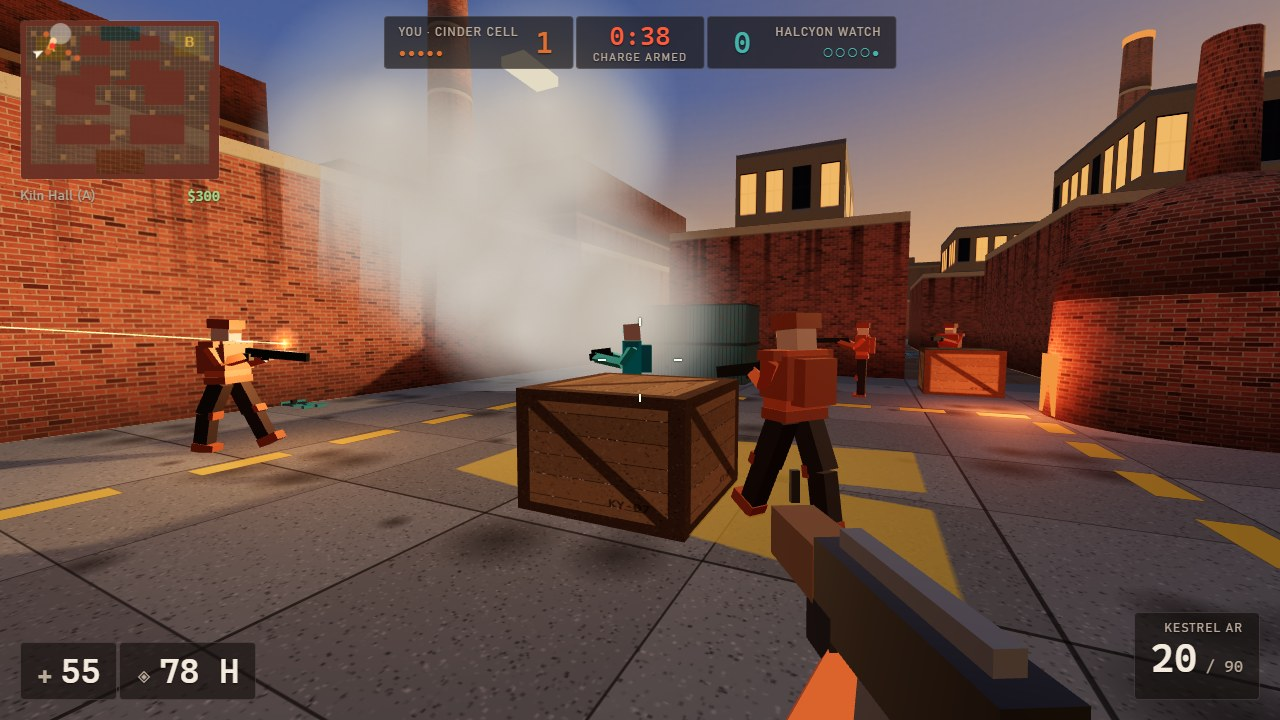
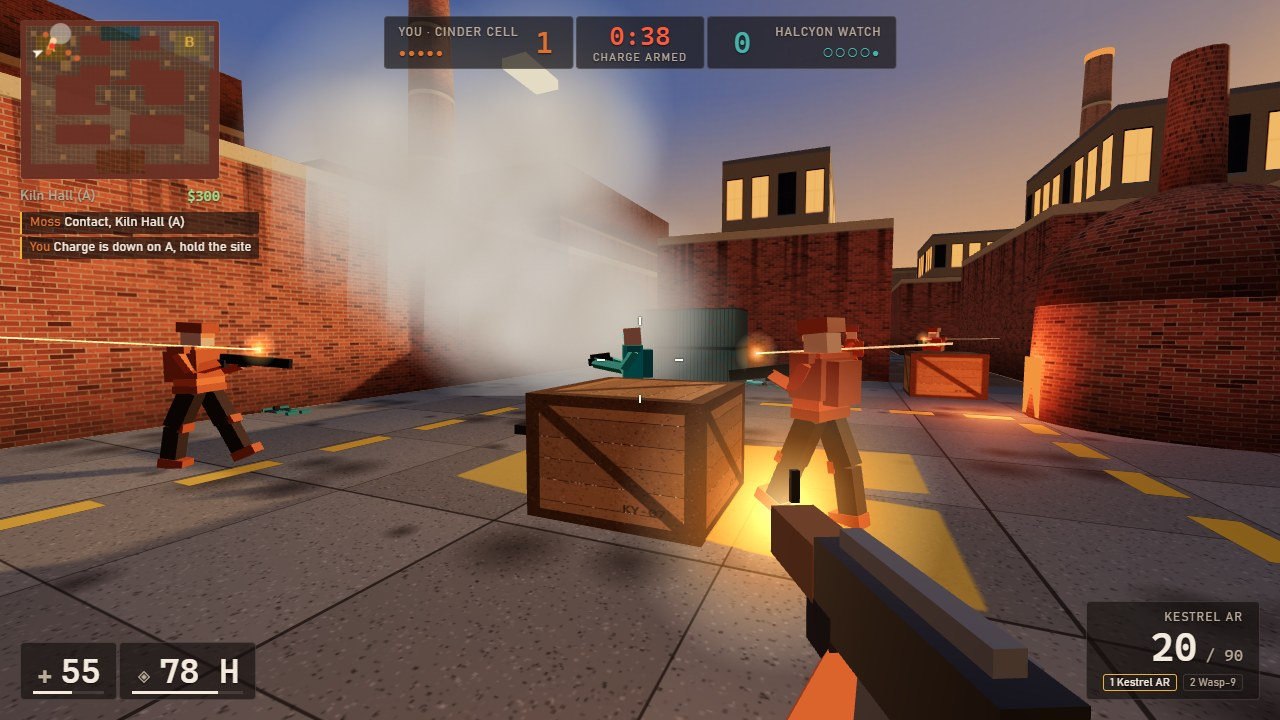
Radio callouts, loadout strip, meters, sign boards, muzzle in world space
Bots call contacts, executes, rotations, retakes, defuses and thrown
utility to their squad; the HUD shows them with a loadout strip and health
and armour meters. Wall signs are painted boards. The player's tracers now
start at the gun in world space (they started at the weapon scene's origin).

diff --git a/game/src/ui/hud.js b/game/src/ui/hud.js
@@ -14,8 +14,8 @@ const clock = (t) => `${Math.floor(Math.max(0, t) / 60)}:${String(Math.floor(Mat
 export function createHud() {
 	const el = {};
 	for (const id of ['callout', 'money', 'timer', 'phase', 'feed', 'crosshair', 'hitmarker', 'hp', 'armor', 'weapon-name', 'mag', 'reserve',
-		'nades', 'action', 'action-label', 'action-fill', 'hint', 'banner', 'banner-title', 'banner-sub', 'spectate', 'damage', 'flashbang', 'scope',
-		'board', 'board-body', 'clock']) el[id] = $(id);
+		'action', 'action-label', 'action-fill', 'hint', 'banner', 'banner-title', 'banner-sub', 'spectate', 'damage', 'flashbang', 'scope',
+		'board', 'board-body', 'clock', 'radio', 'slots', 'hp-bar', 'armor-bar']) el[id] = $(id);
 	const teams = [0, 1].map((i) => ({ root: $(`team${i}`), name: $(`team${i}`).querySelector('.name'), score: $(`team${i}`).querySelector('.score'), pips: $(`team${i}`).querySelector('.pips') }));
 	const cache = new Map();
 	const set = (key, node, value, prop = 'textContent') => {
@@ -29,7 +29,8 @@ export function createHud() {
 		node.classList.toggle(name, on);
 	};
 
-	const feed = [];
+	const feed = [], calls = [];
+	const slots = { primary: null, secondary: null, slot: '', nades: -1 };
 	let bannerUntil = 0, hitUntil = 0, hurt = 0, boardAt = 0;
 
 	function banner(title, sub, now, seconds) {
@@ -38,21 +39,31 @@ export function createHud() {
 		bannerUntil = now + seconds;
 	}
 
-	function pushFeed(killer, victim, weapon, head, viewer, now) {
+	// A timed line at the top of a list (the kill feed, the radio); the oldest goes past `max`.
+	function pushLine(lines, root, html, className, until, max) {
 		const li = document.createElement('li');
-		const name = (s) => `<span class="${s.side}">${s.name}</span>`;
+		li.innerHTML = html;
+		li.className = className;
+		root.prepend(li);
+		lines.unshift({ li, until });
+		while (lines.length > max) lines.pop().li.remove();
+	}
+	const expire = (lines, now) => {
+		for (let i = lines.length - 1; i >= 0; i--) if (now > lines[i].until) lines.splice(i, 1)[0].li.remove();
+	};
+	const tag = (s) => `<span class="${s.side}">${s.name}</span>`;
+
+	function pushKill(killer, victim, weapon, head, viewer, now) {
 		const label = WEAPONS[weapon]?.name ?? (weapon === 'frag' ? 'Frag' : 'Charge');
-		li.innerHTML = killer === victim ? `<em>${label}</em> ${name(victim)}` : `${name(killer)} <em>${label}${head ? ' ◉' : ''}</em> ${name(victim)}`;
-		if (killer === viewer || victim === viewer) li.className = 'mine';
-		el.feed.prepend(li);
-		feed.unshift({ li, until: now + 6 });
-		while (feed.length > 5) feed.pop().li.remove();
+		const html = killer === victim ? `<em>${label}</em> ${tag(victim)}` : `${tag(killer)} <em>${label}${head ? ' ◉' : ''}</em> ${tag(victim)}`;
+		pushLine(feed, el.feed, html, killer === viewer || victim === viewer ? 'mine' : '', now + 6, 5);
 	}
 
 	return {
 		event(e, sim, viewer) {
 			const now = sim.time;
-			if (e.type === 'kill') pushFeed(e.o, e.s, e.id, e.n === 1, viewer, now);
+			if (e.type === 'kill') pushKill(e.o, e.s, e.id, e.n === 1, viewer, now);
+			else if (e.type === 'radio' && e.s.squad === viewer.squad) pushLine(calls, el.radio, `${tag(e.s)} ${e.id}`, '', now + 5, 4);
 			else if (e.type === 'hit') {
 				if (e.o === viewer && e.s !== viewer) { hitUntil = now + 0.12; toggle('headhit', el.hitmarker, 'head', e.id === 'head'); }
 				if (e.s === viewer) hurt = Math.min(1, hurt + e.n / 60);
@@ -97,11 +108,17 @@ export function createHud() {
 			set('mag', el.mag, w ? String(w.mag) : String(viewer.nades[viewer.nadeType]));
 			set('reserve', el.reserve, w ? `/ ${w.reserve}` : '');
 			toggle('empty', el.mag, 'empty', w !== null && w.mag === 0);
-			const n = viewer.nades;
-			const nadeKey = n.frag * 100 + n.flash * 10 + n.smoke;
-			if (cache.get('nades') !== nadeKey) {
-				cache.set('nades', nadeKey);
-				el.nades.innerHTML = '<i class="frag"></i>'.repeat(n.frag) + '<i class="flash"></i>'.repeat(n.flash) + '<i class="smoke"></i>'.repeat(n.smoke);
+			set('hpbar', el['hp-bar'].style, `${Math.max(0, viewer.hp)}%`, 'width');
+			set('armorbar', el['armor-bar'].style, `${viewer.armor}%`, 'width');
+
+			// The loadout strip: what keys 1, 2 and 4 hold, the one in hand lit.
+			const n = viewer.nades, held = n.frag + n.flash + n.smoke;
+			if (slots.primary !== viewer.primary || slots.secondary !== viewer.secondary || slots.slot !== viewer.slot || slots.nades !== held) {
+				Object.assign(slots, { primary: viewer.primary, secondary: viewer.secondary, slot: viewer.slot, nades: held });
+				const item = (key, slot, label) => `<i${viewer.slot === slot ? ' class="on"' : ''}>${key} ${label}</i>`;
+				const nades = ['frag', 'flash', 'smoke'].filter((t) => n[t] > 0).map((t) => (n[t] > 1 ? `${NADE_NAMES[t]} ×${n[t]}` : NADE_NAMES[t]));
+				el.slots.innerHTML = (viewer.primary ? item(1, 'primary', viewer.primary.def.name) : '')
+					+ item(2, 'secondary', viewer.secondary.def.name) + (held > 0 ? item(4, 'nade', nades.join(' · ')) : '');
 			}
 
 			// Plant / defuse progress and context hints.
@@ -136,7 +153,8 @@ export function createHud() {
 			set('blind', el.flashbang.style, Math.min(1, viewer.flash / 1.6).toFixed(2), 'opacity');
 			toggle('scope', el.scope, 'on', viewer.scoped && viewer.alive);
 			toggle('banner', el.banner, 'on', now < bannerUntil);
-			for (let i = feed.length - 1; i >= 0; i--) if (now > feed[i].until) feed.splice(i, 1)[0].li.remove();
+			expire(feed, now);
+			expire(calls, now);
 		},
 
 		board(sim, me, show) {

diff --git a/game/style.css b/game/style.css
@@ -8,6 +8,8 @@ html, body { margin: 0; height: 100%; overflow: hidden; background: var(--soot);
 .atk { color: var(--atk); } .def { color: var(--def); }
 #radar { position: fixed; left: 20px; top: 20px; width: 200px; height: 160px; border-radius: 4px; border: 1px solid var(--line); }
 #where { position: fixed; left: 20px; top: 188px; width: 200px; display: flex; justify-content: space-between; font-size: 14px; color: var(--muted); }
+#radio { position: fixed; left: 20px; top: 212px; margin: 0; padding: 0; list-style: none; display: grid; gap: 3px; font-size: 13px; }
+#radio li { padding: 3px 8px; background: var(--panel); border-left: 2px solid var(--hazard); border-radius: 2px; }
 #money { font-family: var(--readout); color: #9fdc8c; font-weight: 600; }
 #scorebar { position: fixed; top: 16px; left: 50%; transform: translateX(-50%); display: flex; align-items: stretch; gap: 2px; }
 .team { display: grid; grid-template-columns: auto auto; align-items: center; column-gap: 12px; padding: 6px 14px; min-width: 190px; }
@@ -41,7 +43,9 @@ html, body { margin: 0; height: 100%; overflow: hidden; background: var(--soot);
 #hitmarker i:nth-child(3) { top: 14px; left: 0; height: 2px; width: 9px; }
 #hitmarker i:nth-child(4) { top: 14px; right: 0; height: 2px; width: 9px; }
 #vitals { position: fixed; left: 20px; bottom: 20px; display: flex; gap: 2px; }
-#vitals div { display: flex; align-items: baseline; gap: 8px; padding: 8px 16px; }
+#vitals div { position: relative; display: flex; align-items: baseline; gap: 8px; padding: 8px 16px; }
+.meter { position: absolute; left: 12px; right: 12px; bottom: 5px; height: 3px; background: rgba(243, 233, 220, 0.12); }
+.meter b { display: block; height: 100%; width: 0; background: var(--ink); }
 #vitals .icon { font-size: 18px; color: var(--muted); }
 #vitals b { font: 600 34px var(--readout); }
 #arms { position: fixed; right: 20px; bottom: 20px; padding: 8px 16px; text-align: right; }
@@ -50,9 +54,9 @@ html, body { margin: 0; height: 100%; overflow: hidden; background: var(--soot);
 #mag { font: 600 40px var(--readout); }
 #mag.empty { color: var(--hurt); }
 #reserve { font: 16px var(--readout); color: var(--muted); }
-#nades { display: flex; justify-content: flex-end; gap: 4px; min-height: 10px; }
-#nades i { width: 8px; height: 10px; border-radius: 2px; }
-#nades .frag { background: #8a9a5a; } #nades .flash { background: #e8e2d2; } #nades .smoke { background: #8c9096; }
+#slots { display: flex; justify-content: flex-end; gap: 6px; margin-top: 4px; font-size: 11px; color: var(--muted); }
+#slots i { font-style: normal; padding: 1px 6px; border: 1px solid var(--line); border-radius: 3px; }
+#slots i.on { color: var(--ink); border-color: var(--hazard); }
 #action { position: fixed; left: 50%; top: 62%; transform: translateX(-50%); width: 280px; text-align: center; opacity: 0; }
 #action.on { opacity: 1; }
 #action-label { font-size: 13px; letter-spacing: 0.1em; text-transform: uppercase; margin-bottom: 6px; }

diff --git a/game/src/ai/tactics.js b/game/src/ai/tactics.js
@@ -7,6 +7,7 @@ import { buy } from '../sim/shop.js';
 import { sideOf } from '../sim/round.js';
 import { intelNear } from './perception.js';
 import { setTask } from './bot.js';
+import { radio } from '../sim/events.js';
 
 const DEFENCE_SETUPS = [
 	['A', 'A', 'mid', 'B', 'B'], ['A', 'B', 'B', 'mid', 'A'], ['A', 'A', 'B', 'B', 'B'], ['B', 'A', 'A', 'mid', 'A'],
@@ -19,7 +20,7 @@ const CENTERS = { A: world(SITES.A.center), B: world(SITES.B.center) };
 export function createTactics(soldiers) {
 	return [0, 1].map((squad) => ({
 		roster: soldiers.filter((s) => s.squad === squad && s.brain !== null), alive: [],
-		plan: null, executed: false, rushed: false, planted: false, pressure: '', defuser: null,
+		plan: null, executed: false, rushed: false, planted: false, pressure: '', defuser: null, calledAt: -99,
 	}));
 }
 
@@ -114,6 +115,7 @@ function attack(sim, st, bots) {
 	if (charge.state === 'planted') {
 		if (!st.planted) {
 			st.planted = true;
+			radio(sim, bots[0], `Charge is down on ${charge.site}, hold the site`);
 			const site = SITES[charge.site];
 			bots.forEach((bot, i) => {
 				const spot = site.post[i % site.post.length];
@@ -143,6 +145,7 @@ function attack(sim, st, bots) {
 // each group's utility thrown from its staging point first.
 function execute(sim, st, bots) {
 	st.executed = true;
+	radio(sim, bots[0], st.rushed ? `Out of time, everyone ${st.plan.site}!` : `Go ${st.plan.site}, go!`);
 	const site = SITES[st.plan.site];
 	const thrown = new Set();
 	bots.forEach((bot, i) => {
@@ -180,6 +183,7 @@ function defend(sim, st, bots) {
 		const site = SITES[charge.site];
 		if (!st.planted) {
 			st.planted = true;
+			radio(sim, bots[0], `Charge on ${charge.site}, retake!`);
 			bots.forEach((bot, i) => {
 				const hold = site.holds[i % site.holds.length];
 				setTask(bot, 'hold', [world(hold.at)], charge.x, charge.z);
@@ -191,6 +195,7 @@ function defend(sim, st, bots) {
 		if ((!st.defuser || !st.defuser.alive) && (!threat || urgent)) {
 			st.defuser = bots.find((b) => b.kit && Math.hypot(b.pos.x - charge.x, b.pos.z - charge.z) < 25) ?? nearest(bots, charge.x, charge.z);
 			setTask(st.defuser, 'defuse', [{ x: charge.x + 0.4, z: charge.z + 0.4 }], charge.x, charge.z);
+			radio(sim, st.defuser, 'On the charge, cover me');
 		}
 		return;
 	}
@@ -202,6 +207,7 @@ function defend(sim, st, bots) {
 		for (const m of sim.intel[bots[0].squad]) if (sim.time - m.time < 3 && Math.hypot(m.x - c.x, m.z - c.z) < 18) seen++;
 		if (seen >= 2) {
 			st.pressure = key;
+			radio(sim, bots[0], `They're on ${key}, rotating`);
 			bots.forEach((bot, i) => {
 				if (bot.brain.post === key) return;
 				const hold = SITES[key].holds[(i + 1) % SITES[key].holds.length];

diff --git a/game/index.html b/game/index.html
@@ -12,6 +12,7 @@
 <div id="hud" aria-hidden="true">
 	<canvas id="radar" width="200" height="160"></canvas>
 	<div id="where"><span id="callout"></span><span id="money">$800</span></div>
+	<ul id="radio"></ul>
 	<div id="scorebar">
 		<div id="team0" class="team panel"><span class="name"></span><span class="score">0</span><span class="pips"></span></div>
 		<div id="clock" class="panel"><span id="timer">0:00</span><span id="phase"></span></div>
@@ -20,8 +21,8 @@
 	<ul id="feed"></ul>
 	<div id="crosshair"><i></i><i></i><i></i><i></i></div>
 	<div id="hitmarker"><i></i><i></i><i></i><i></i></div>
-	<div id="vitals"><div class="panel"><span class="icon">✚</span><b id="hp">100</b></div><div class="panel"><span class="icon">◈</span><b id="armor">0</b></div></div>
-	<div id="arms" class="panel"><div id="weapon-name"></div><div id="ammo"><span id="mag">0</span><span id="reserve"></span></div><div id="nades"></div></div>
+	<div id="vitals"><div class="panel"><span class="icon">✚</span><b id="hp">100</b><i class="meter"><b id="hp-bar"></b></i></div><div class="panel"><span class="icon">◈</span><b id="armor">0</b><i class="meter"><b id="armor-bar"></b></i></div></div>
+	<div id="arms" class="panel"><div id="weapon-name"></div><div id="ammo"><span id="mag">0</span><span id="reserve"></span></div><div id="slots"></div></div>
 	<div id="action"><div id="action-label"></div><div class="bar"><i id="action-fill"></i></div></div>
 	<div id="hint"></div>
 	<div id="spectate"></div>

diff --git a/game/src/render/effects.js b/game/src/render/effects.js
@@ -100,13 +100,17 @@ export function createEffects(scene, tex) {
 		t.until = now + 0.05;
 	}
 
-	function muzzleFlash(x, y, z, now) {
-		const f = flashes.take();
-		f.sprite.position.set(x, y, z);
-		f.sprite.scale.setScalar(0.45);
-		f.sprite.material.rotation = now * 31;
-		f.sprite.visible = true;
-		f.until = now + 0.05;
+	// A flash at a third-person muzzle and a flicker of light on its surroundings; the viewer's own
+	// gun draws its flash in the weapon scene, so for it only the light is placed.
+	function muzzleFlash(x, y, z, now, own) {
+		if (!own) {
+			const f = flashes.take();
+			f.sprite.position.set(x, y, z);
+			f.sprite.scale.setScalar(0.45);
+			f.sprite.material.rotation = now * 31;
+			f.sprite.visible = true;
+			f.until = now + 0.05;
+		}
 		flashLight.position.set(x, y, z);
 		flashLight.intensity = 6;
 		lightUntil = now + 0.05;
@@ -130,7 +134,7 @@ export function createEffects(scene, tex) {
 			if (e.type === 'shot') {
 				const from = e.s === viewer && viewer.alive ? muzzleOf(tmpA) : tmpA.set(
 					e.x - Math.sin(e.s.yaw) * 0.75, e.y - 0.22, e.z - Math.cos(e.s.yaw) * 0.75);
-				if (e.s !== viewer || !viewer.alive) muzzleFlash(from.x, from.y, from.z, now);
+				muzzleFlash(from.x, from.y, from.z, now, e.s === viewer && viewer.alive);
 				tracer(from, tmpB.set(e.x2, e.y2, e.z2), now);
 			} else if (e.type === 'impact') {
 				const h = holes.take();

diff --git a/game/src/render/viewmodel.js b/game/src/render/viewmodel.js
@@ -114,7 +114,7 @@ export function createViewmodel(vmScene, tex) {
 	}
 
 	const flash = new THREE.Sprite(new THREE.SpriteMaterial({ map: tex.glow, color: 0xffd9a0, blending: THREE.AdditiveBlending, depthWrite: false, transparent: true }));
-	flash.scale.setScalar(0.16);
+	flash.scale.setScalar(0.5);
 	flash.visible = false;
 
 	const anim = { kick: 0, swayX: 0, swayY: 0, phase: 0, flashUntil: 0, side: 'atk', current: null };
@@ -127,10 +127,12 @@ export function createViewmodel(vmScene, tex) {
 
 	return {
 		// The world position of the player's muzzle, for tracers that start at the gun.
+		// The weapon scene's camera sits at its origin, so the muzzle's position there is a position
+		// in the player's view space: carry it into the world through the main camera.
 		muzzle(camera, out) {
 			if (!anim.current) return out.copy(camera.position);
 			anim.current.muzzle.getWorldPosition(muzzleWorld);
-			return out.copy(muzzleWorld);
+			return out.copy(muzzleWorld).applyMatrix4(camera.matrixWorld);
 		},
 		shot(time) {
 			anim.kick = 1;

diff --git a/game/src/render/textures.js b/game/src/render/textures.js
@@ -218,15 +218,18 @@ function zoneMark(letter) {
 	return texture(c);
 }
 
-// A stencilled wall sign: the site letter with an arrow, or a lane name.
+// A painted board for the walls: a dark panel with a hazard edge, the text and an optional arrow.
 function sign(text, arrow) {
 	const [c, g] = surface(512, 256);
-	g.fillStyle = 'rgba(0,0,0,0)';
-	g.fillRect(0, 0, 512, 256);
+	g.fillStyle = rgb(PALETTE.soot, 0.9);
+	g.fillRect(8, 8, 496, 240);
+	g.strokeStyle = rgb(PALETTE.hazard);
+	g.lineWidth = 10;
+	g.strokeRect(14, 14, 484, 228);
 	g.fillStyle = rgb(PALETTE.sandstone, 1.05);
-	g.font = text.length === 1 ? '900 210px Impact, "Arial Black", sans-serif' : '900 92px Impact, "Arial Black", sans-serif';
+	g.font = `900 ${text.length === 1 ? 190 : 84}px Impact, "Arial Black", sans-serif`;
 	g.textAlign = 'center'; g.textBaseline = 'middle';
-	g.fillText(text, arrow ? 190 : 256, 138);
+	g.fillText(text, arrow ? 190 : 256, 134);
 	if (arrow) {
 		g.beginPath();
 		g.moveTo(330, 90); g.lineTo(430, 128); g.lineTo(330, 166);

diff --git a/game/src/ai/perception.js b/game/src/ai/perception.js
@@ -3,6 +3,7 @@
 import { SENSES } from '../config.js';
 import { eyeHeight } from '../sim/soldier.js';
 import { smokeBlocks } from '../sim/grenades.js';
+import { radio } from '../sim/events.js';
 
 const COS_HALF_FOV = Math.cos(SENSES.fov / 2);
 
@@ -49,6 +50,11 @@ export function perceive(sim, bot) {
 		const miss = b.skill.spray * (0.5 + sim.rng.next());
 		b.errYaw = (sim.rng.next() - 0.5) * miss;
 		b.errPitch = (sim.rng.next() - 0.5) * miss * 0.6;
+		const team = sim.tactics[bot.squad];
+		if (sim.time - team.calledAt > 4) {
+			team.calledAt = sim.time;
+			radio(sim, bot, `Contact, ${sim.grid.calloutAt(best.pos.x, best.pos.z) || 'close'}`);
+		}
 	}
 	if (best) b.lastContact = sim.time;
 	if (b.target && !best) { b.lostX = b.target.pos.x; b.lostZ = b.target.pos.z; b.lostAt = sim.time; }

diff --git a/game/src/ai/bot.js b/game/src/ai/bot.js
@@ -5,6 +5,8 @@ import { MOVE, NADES } from '../config.js';
 import { activeWeapon, eyeHeight } from '../sim/soldier.js';
 import { maxSpeed } from '../sim/movement.js';
 import { perceive, angleDiff } from './perception.js';
+import { NADE_NAMES } from '../sim/weapons.js';
+import { radio } from '../sim/events.js';
 
 const SKILLS = {
 	easy: { reaction: 0.65, turn: 4, settle: 1.9, spray: 0.2, headChance: 0.12, discipline: 0.35 },
@@ -239,6 +241,7 @@ function aimThrow(sim, bot, toss) {
 	if (bot.slot === 'nade' && aligned && sim.time >= bot.deployUntil && bot.throwAt === 0) {
 		c.firePressed = true;
 		if (toss.type === 'frag') b.fragAt = sim.time;
+		radio(sim, bot, `${NADE_NAMES[toss.type]} out`);
 		b.throwing = null;
 	}
 }

diff --git a/game/src/render/level.js b/game/src/render/level.js
@@ -177,7 +177,7 @@ const SIGNS = [
 
 function wallSign(tex, [text, arrow, x, y, z, yaw]) {
 	const m = new THREE.Mesh(
-		new THREE.PlaneGeometry(arrow ? 2.6 : 3.6, arrow ? 1.3 : 1.8),
+		new THREE.PlaneGeometry(arrow ? 3 : 4, arrow ? 1.5 : 2),
 		new THREE.MeshStandardMaterial({ map: tex.sign(text, arrow), transparent: true, depthWrite: false, roughness: 1, polygonOffset: true, polygonOffsetFactor: -2 }),
 	);
 	m.position.set(x, y, z);

diff --git a/game/src/main.js b/game/src/main.js
@@ -214,7 +214,11 @@ function bootShot() {
 	const steps = Math.round(shot.t / STEP);
 	for (let i = 0; i < steps; i++) {
 		stepSim(sim);
-		if (i > steps - 6 / STEP) drainEvents();
+		if (i > steps - 6 / STEP) {
+			placeCamera(1);
+			camera.updateMatrixWorld();
+			drainEvents();
+		}
 		else sim.events.clear();
 	}
 	if (shot.buy) {

diff --git a/game/src/sim/events.js b/game/src/sim/events.js
@@ -23,6 +23,9 @@ export function createEvents() {
 	};
 }
 
+// A bot's callout to its squad, shown in the HUD's radio panel.
+export const radio = (sim, s, text) => sim.events.emit('radio', s, text);
+
 // Sounds the bots can hear: a small ring of recent noises with their reach.
 export function createNoises() {
 	const ring = [];
